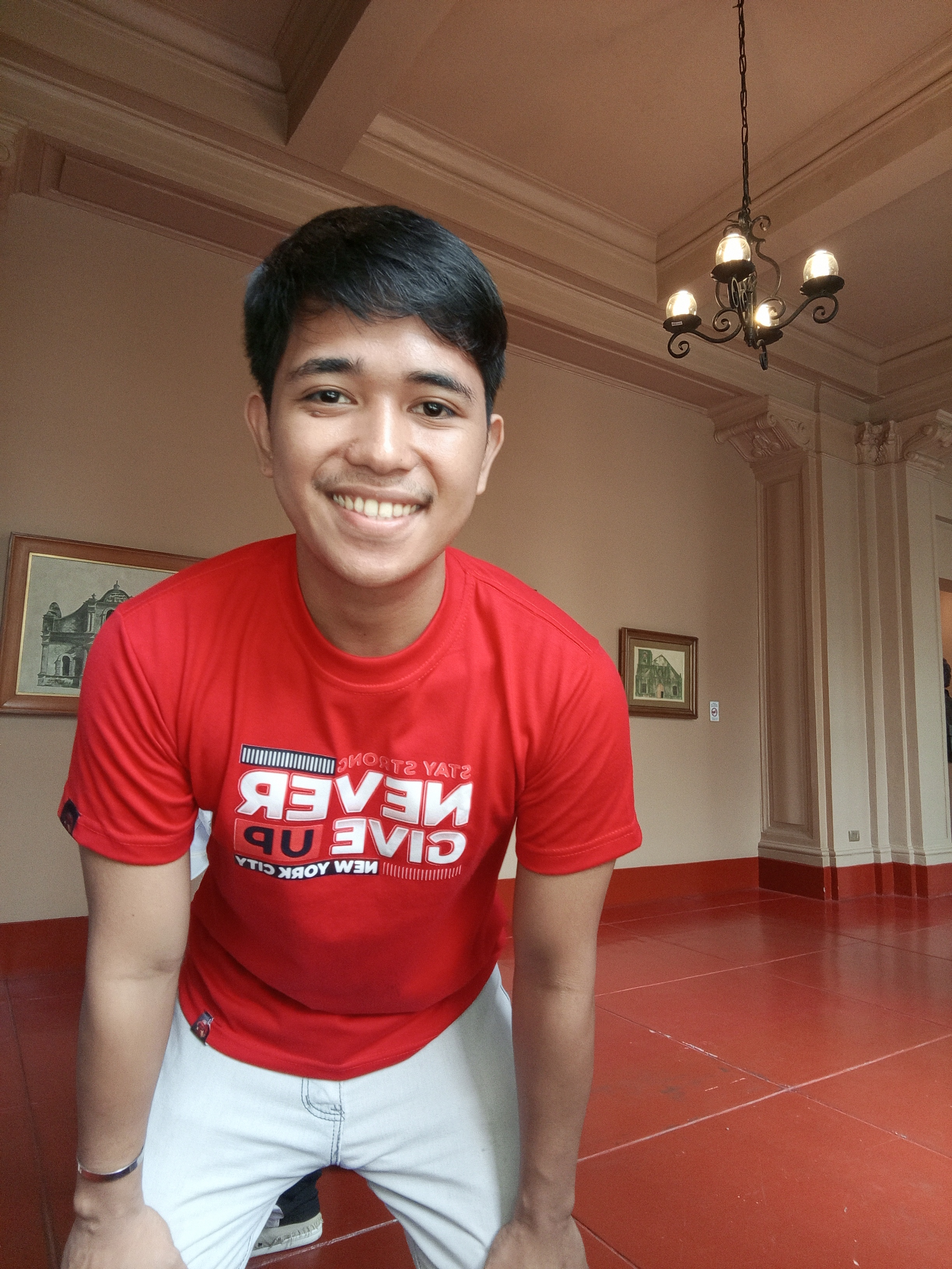
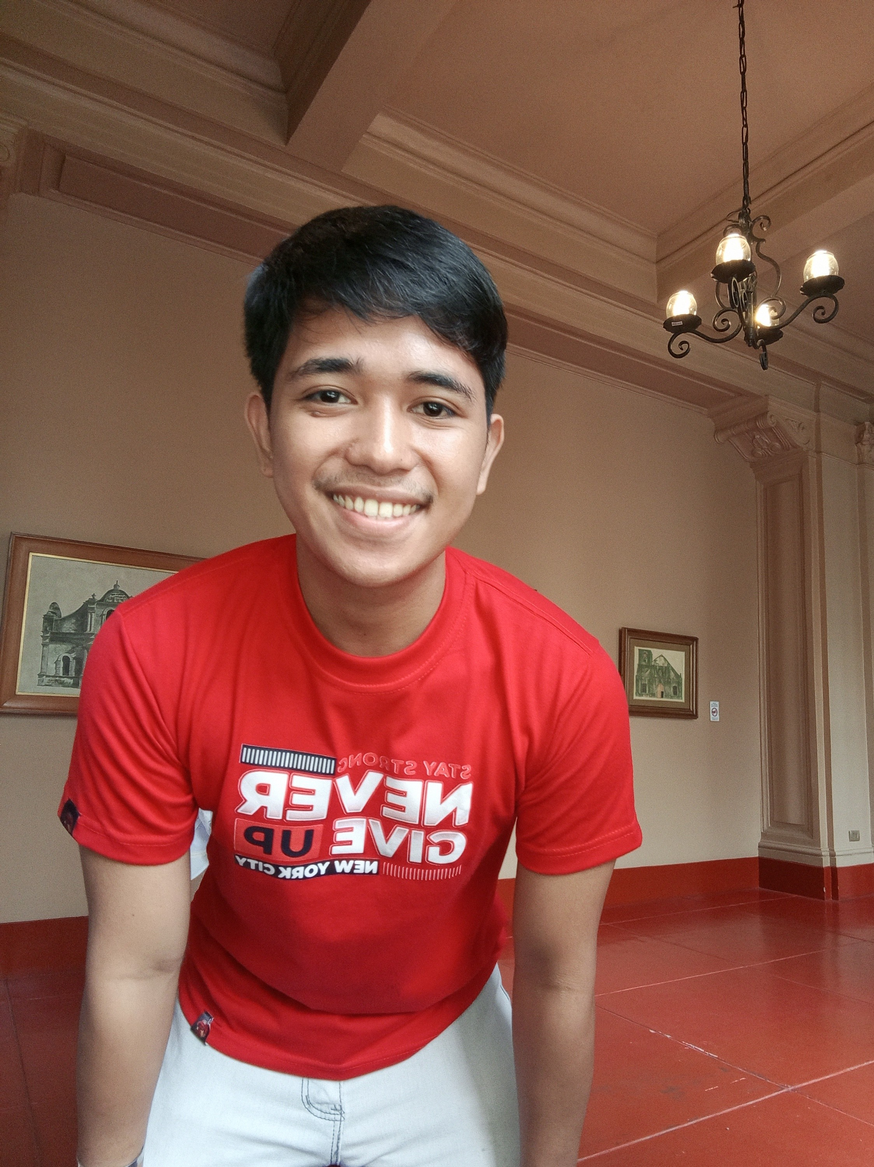
Add some images

diff --git a/src/pages/AboutPage.jsx b/src/pages/AboutPage.jsx
@@ -12,7 +12,7 @@ import { ROLES } from "../data/roles";
 
 const PHOTOS = [
   { src: "/assets/gradpic.jpg", alt: "John Mark Frias graduation portrait 1" },
-  { src: "/assets/gradpic2.jpg", alt: "John Mark Frias graduation portrait 2" },
+  { src: "/assets/gradpic2.JPG", alt: "John Mark Frias graduation portrait 2" },
   { src: "/assets/gradpic3.jpg", alt: "John Mark Frias graduation portrait 3" },
   { src: "/assets/gradpic4.jpg", alt: "John Mark Frias graduation portrait 4" },
 ];
